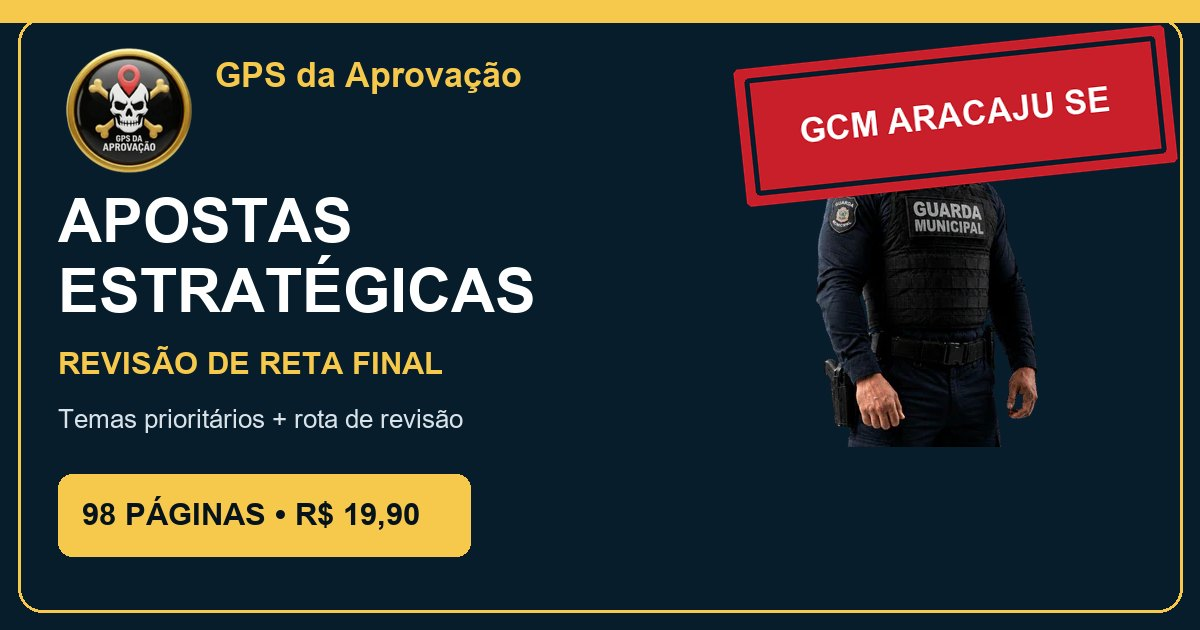
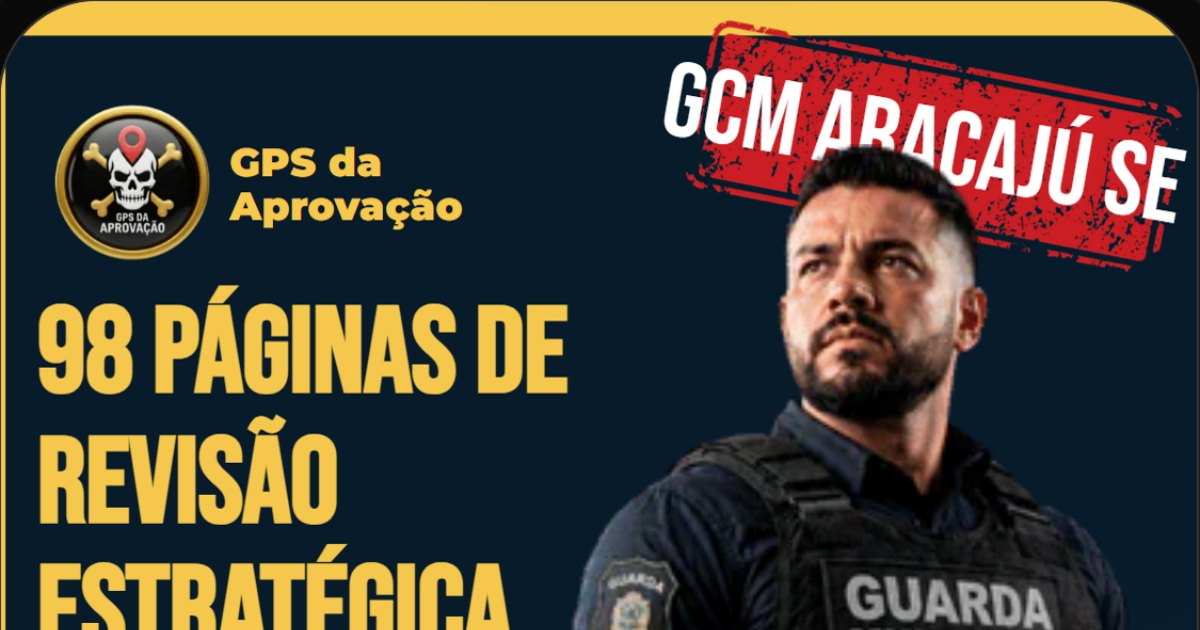
Publica landing GPS Studio

diff --git a/gcmaracaju/README_PUBLICACAO.md b/gcmaracaju/README_PUBLICACAO.md
@@ -2,4 +2,4 @@
 
 Slug: gcmaracaju
 URL prevista: https://gcmaracaju.gpsdaaprovacao.com/
-Gerado em: 23/07/2026, 21:52:25
+Gerado em: 23/07/2026, 22:09:18